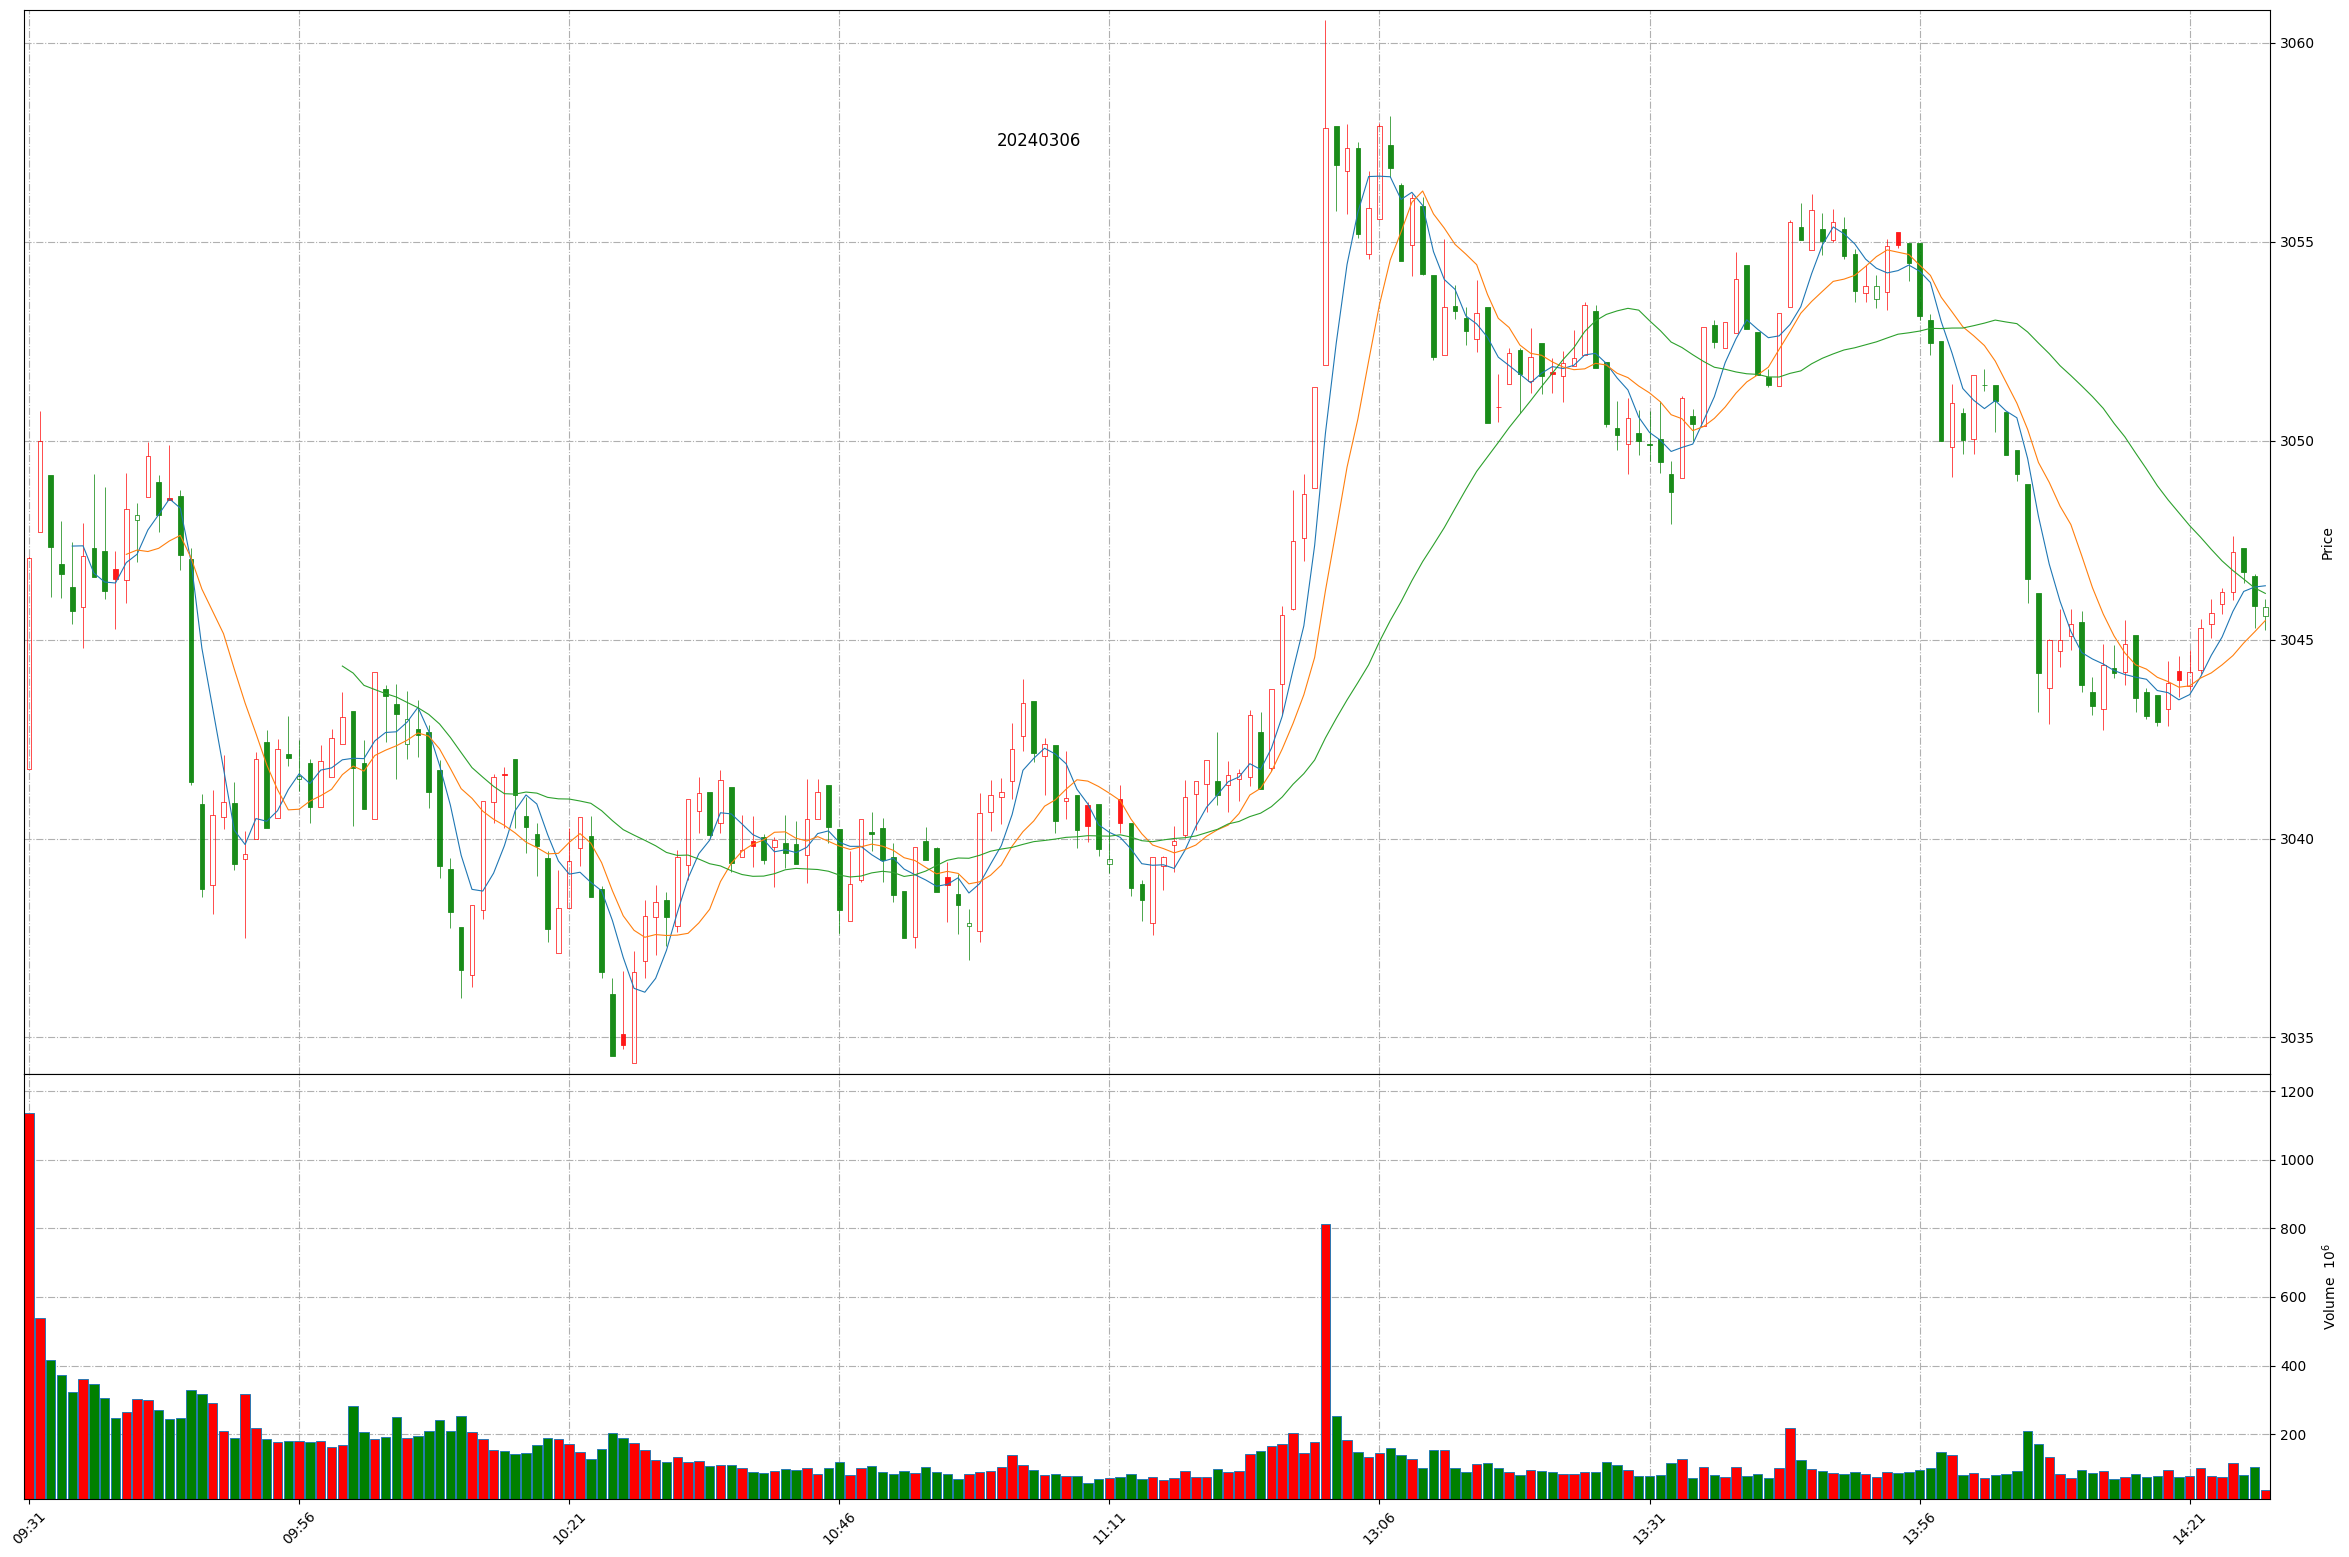
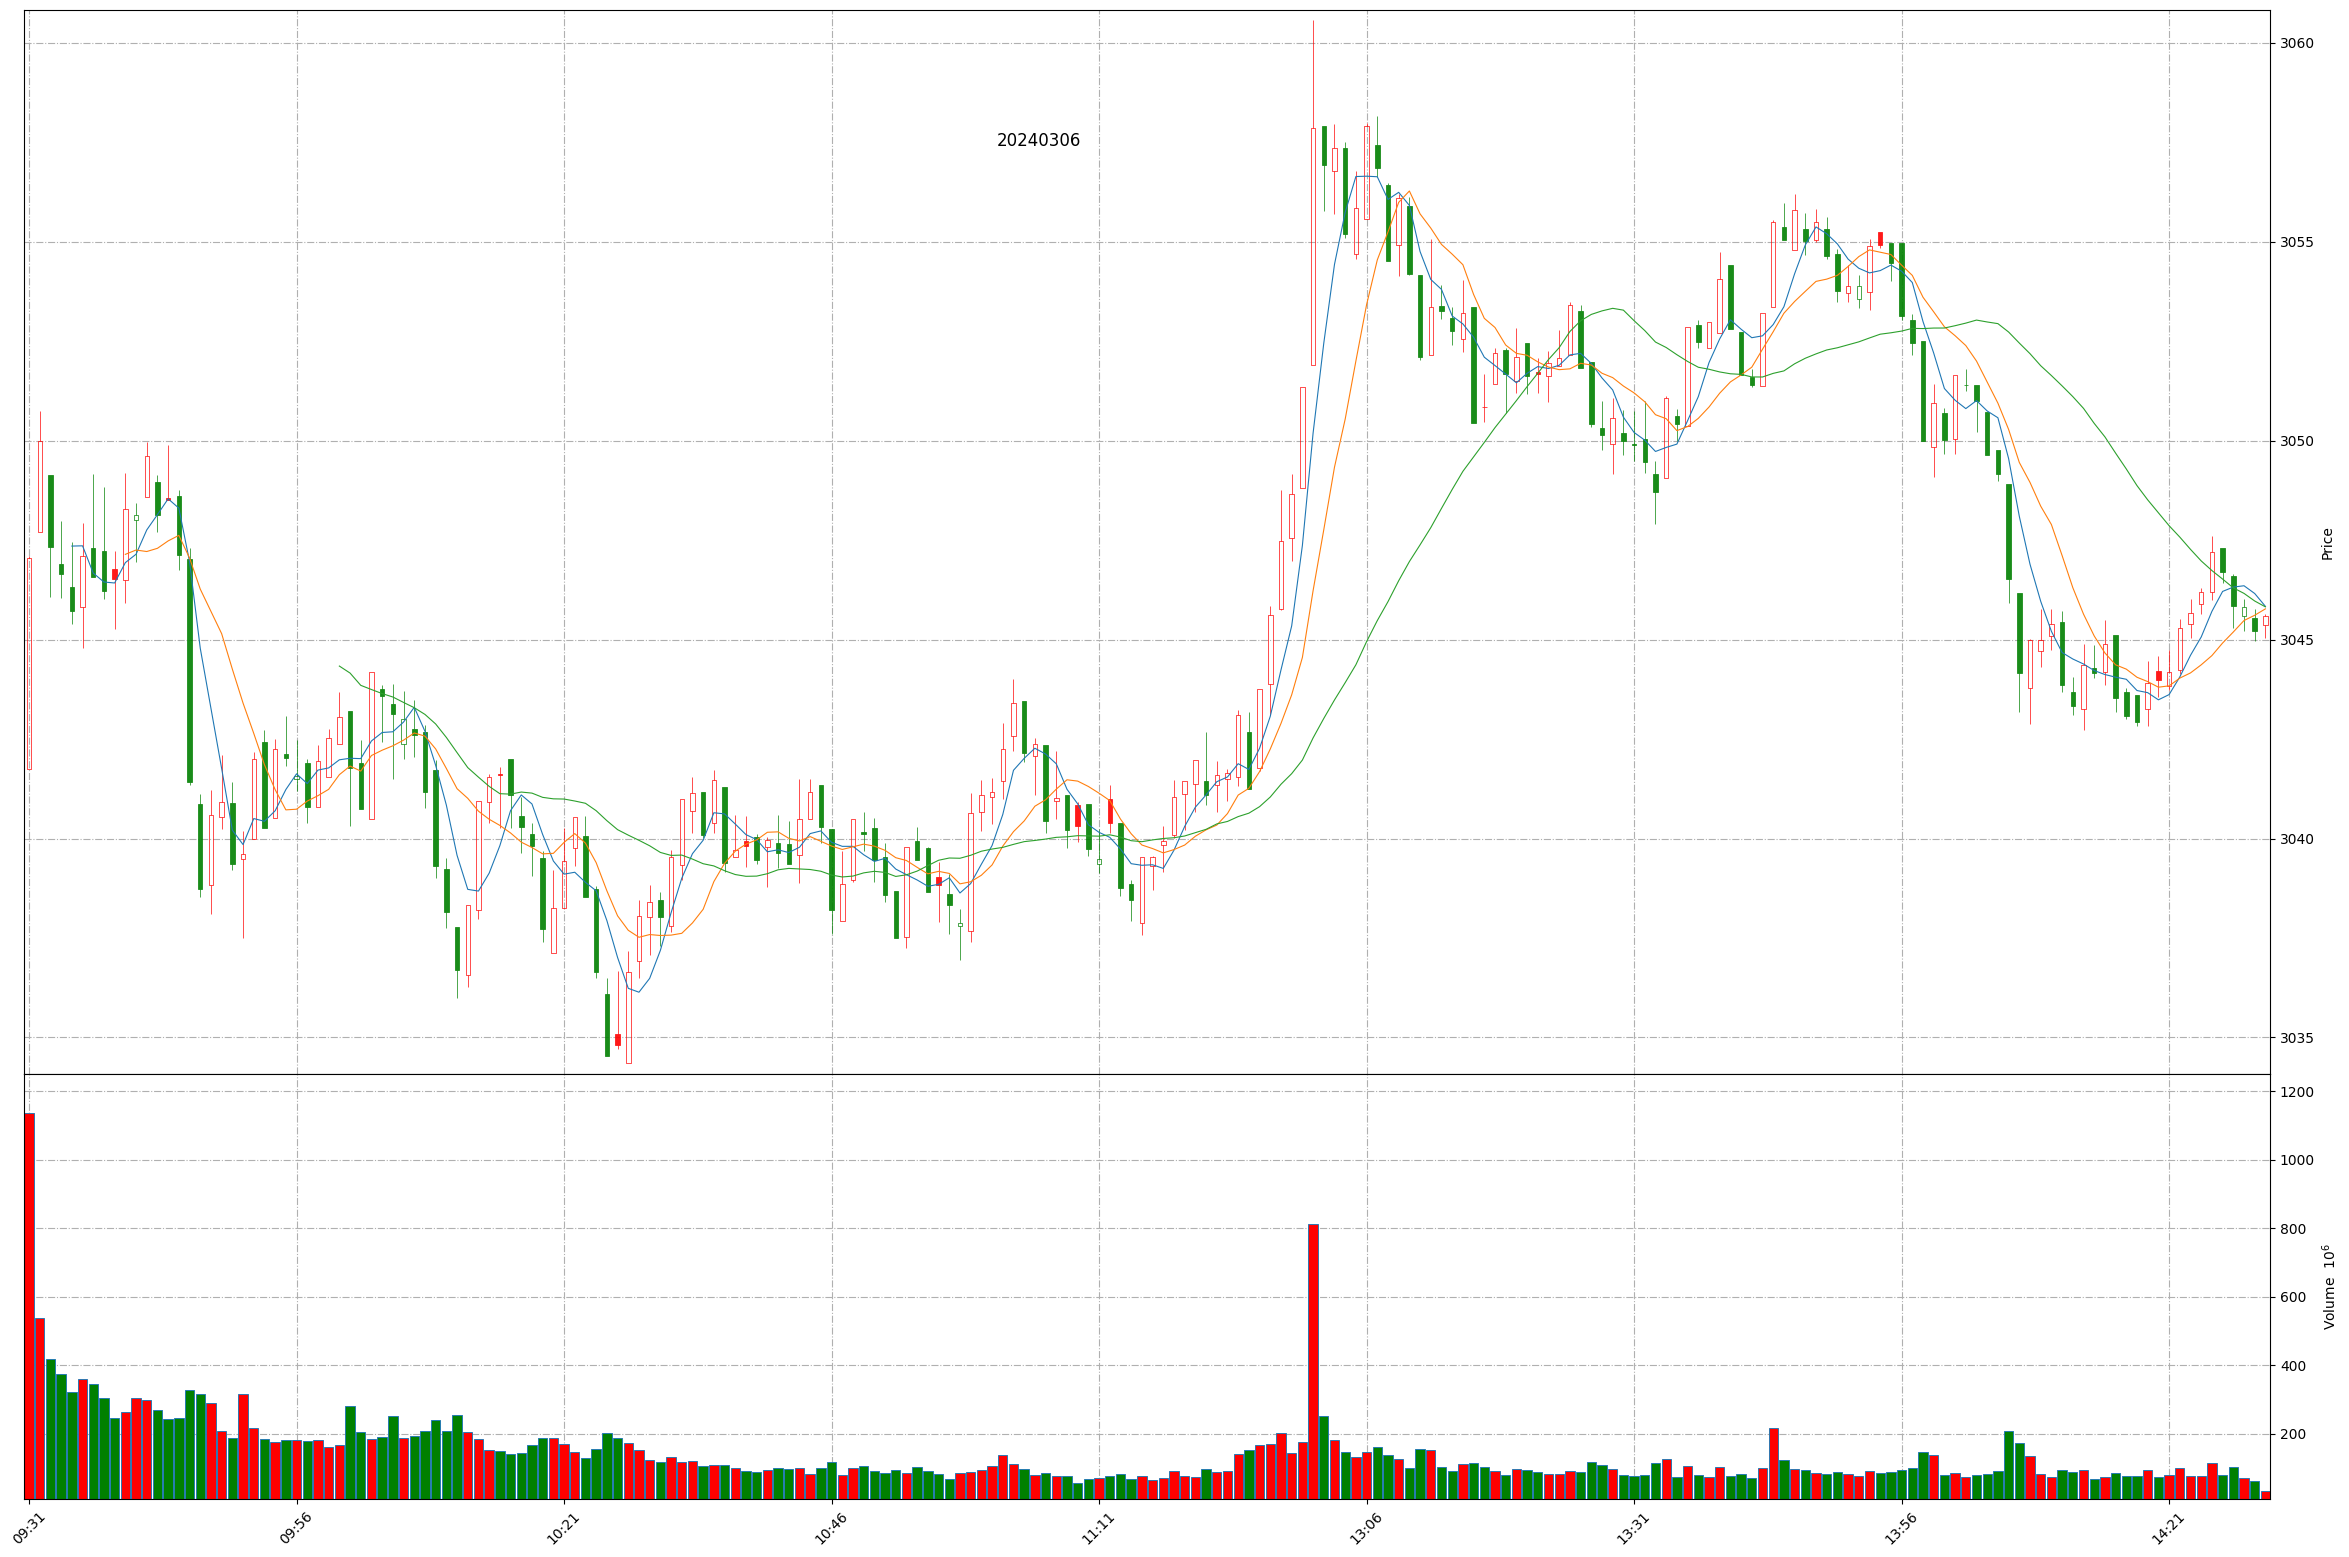
Github action update at 2024-03-06 14:29:42.

diff --git a/README.md b/README.md
@@ -1,11 +1,11 @@
 
 # Daily-A-share-market-quotes 每日 A 股指数（5min 更新）- 20240306
 
-### 上证指数 20240306 14:27
+### 上证指数 20240306 14:29
 ![](./fig/2024/3/20240306-sh000001.png)
 
-### 深证成指 20240306 14:27
+### 深证成指 20240306 14:29
 ![](./fig/2024/3/20240306-sz399001.png)
 
-### 北证50 20240306 14:27
+### 北证50 20240306 14:29
 ![](./fig/2024/3/20240306-bj899050.png)
